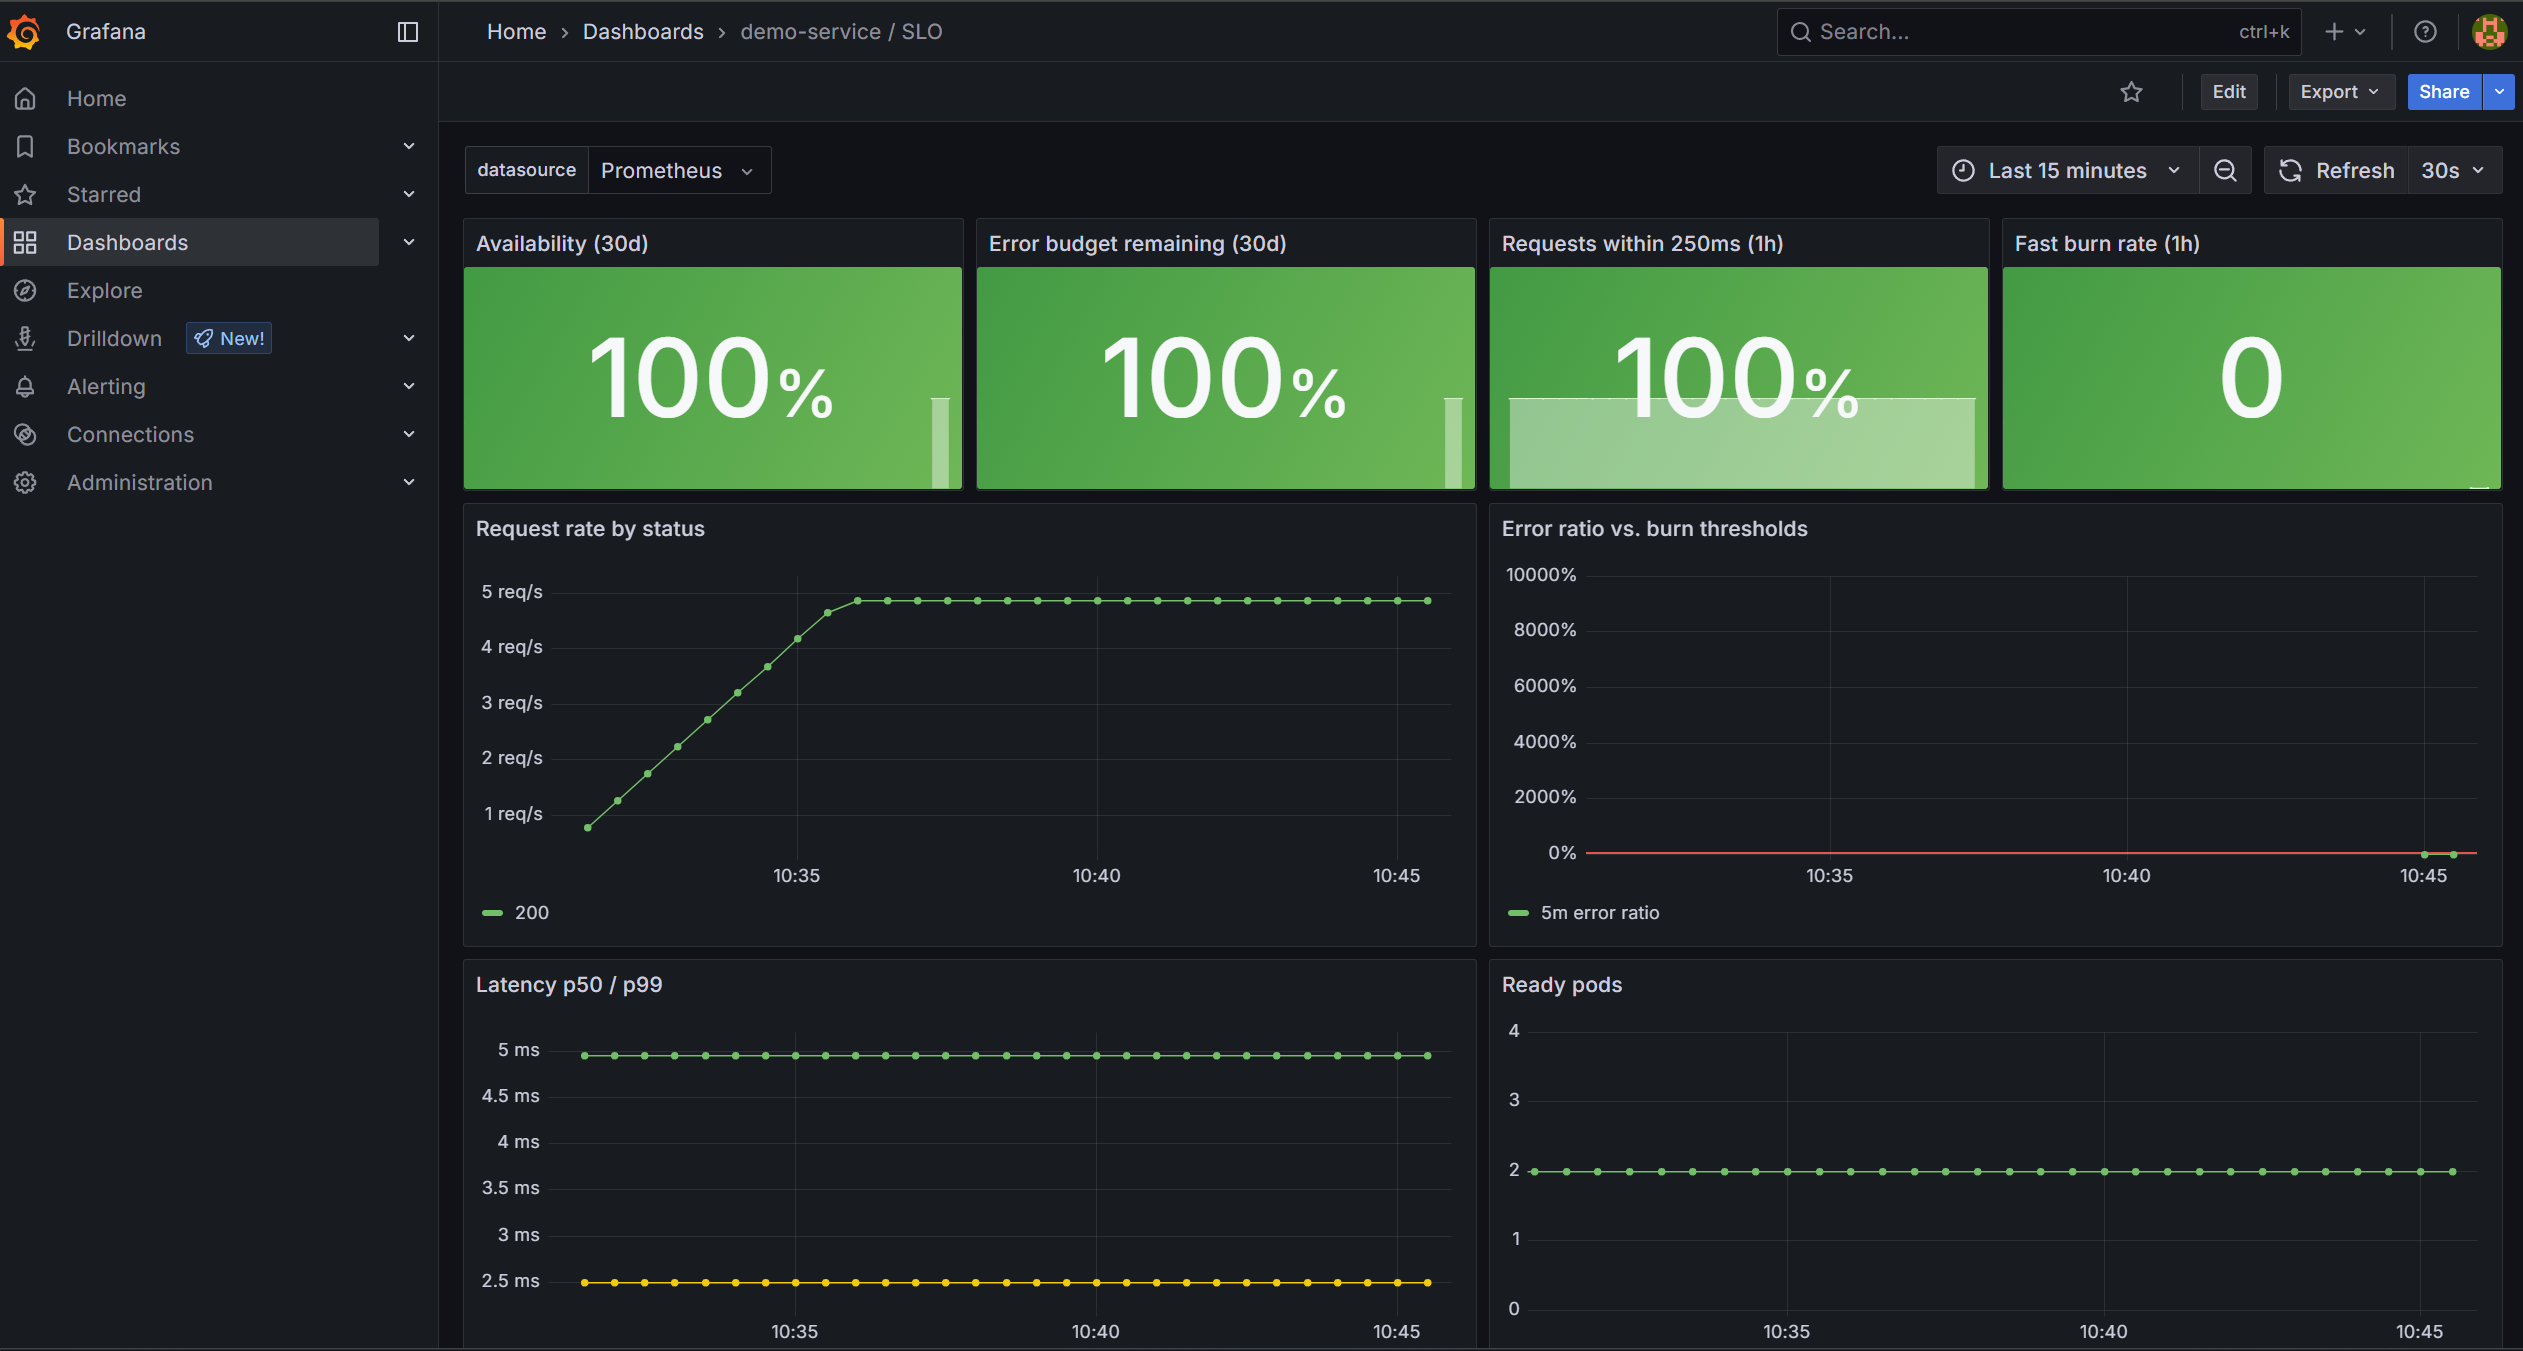
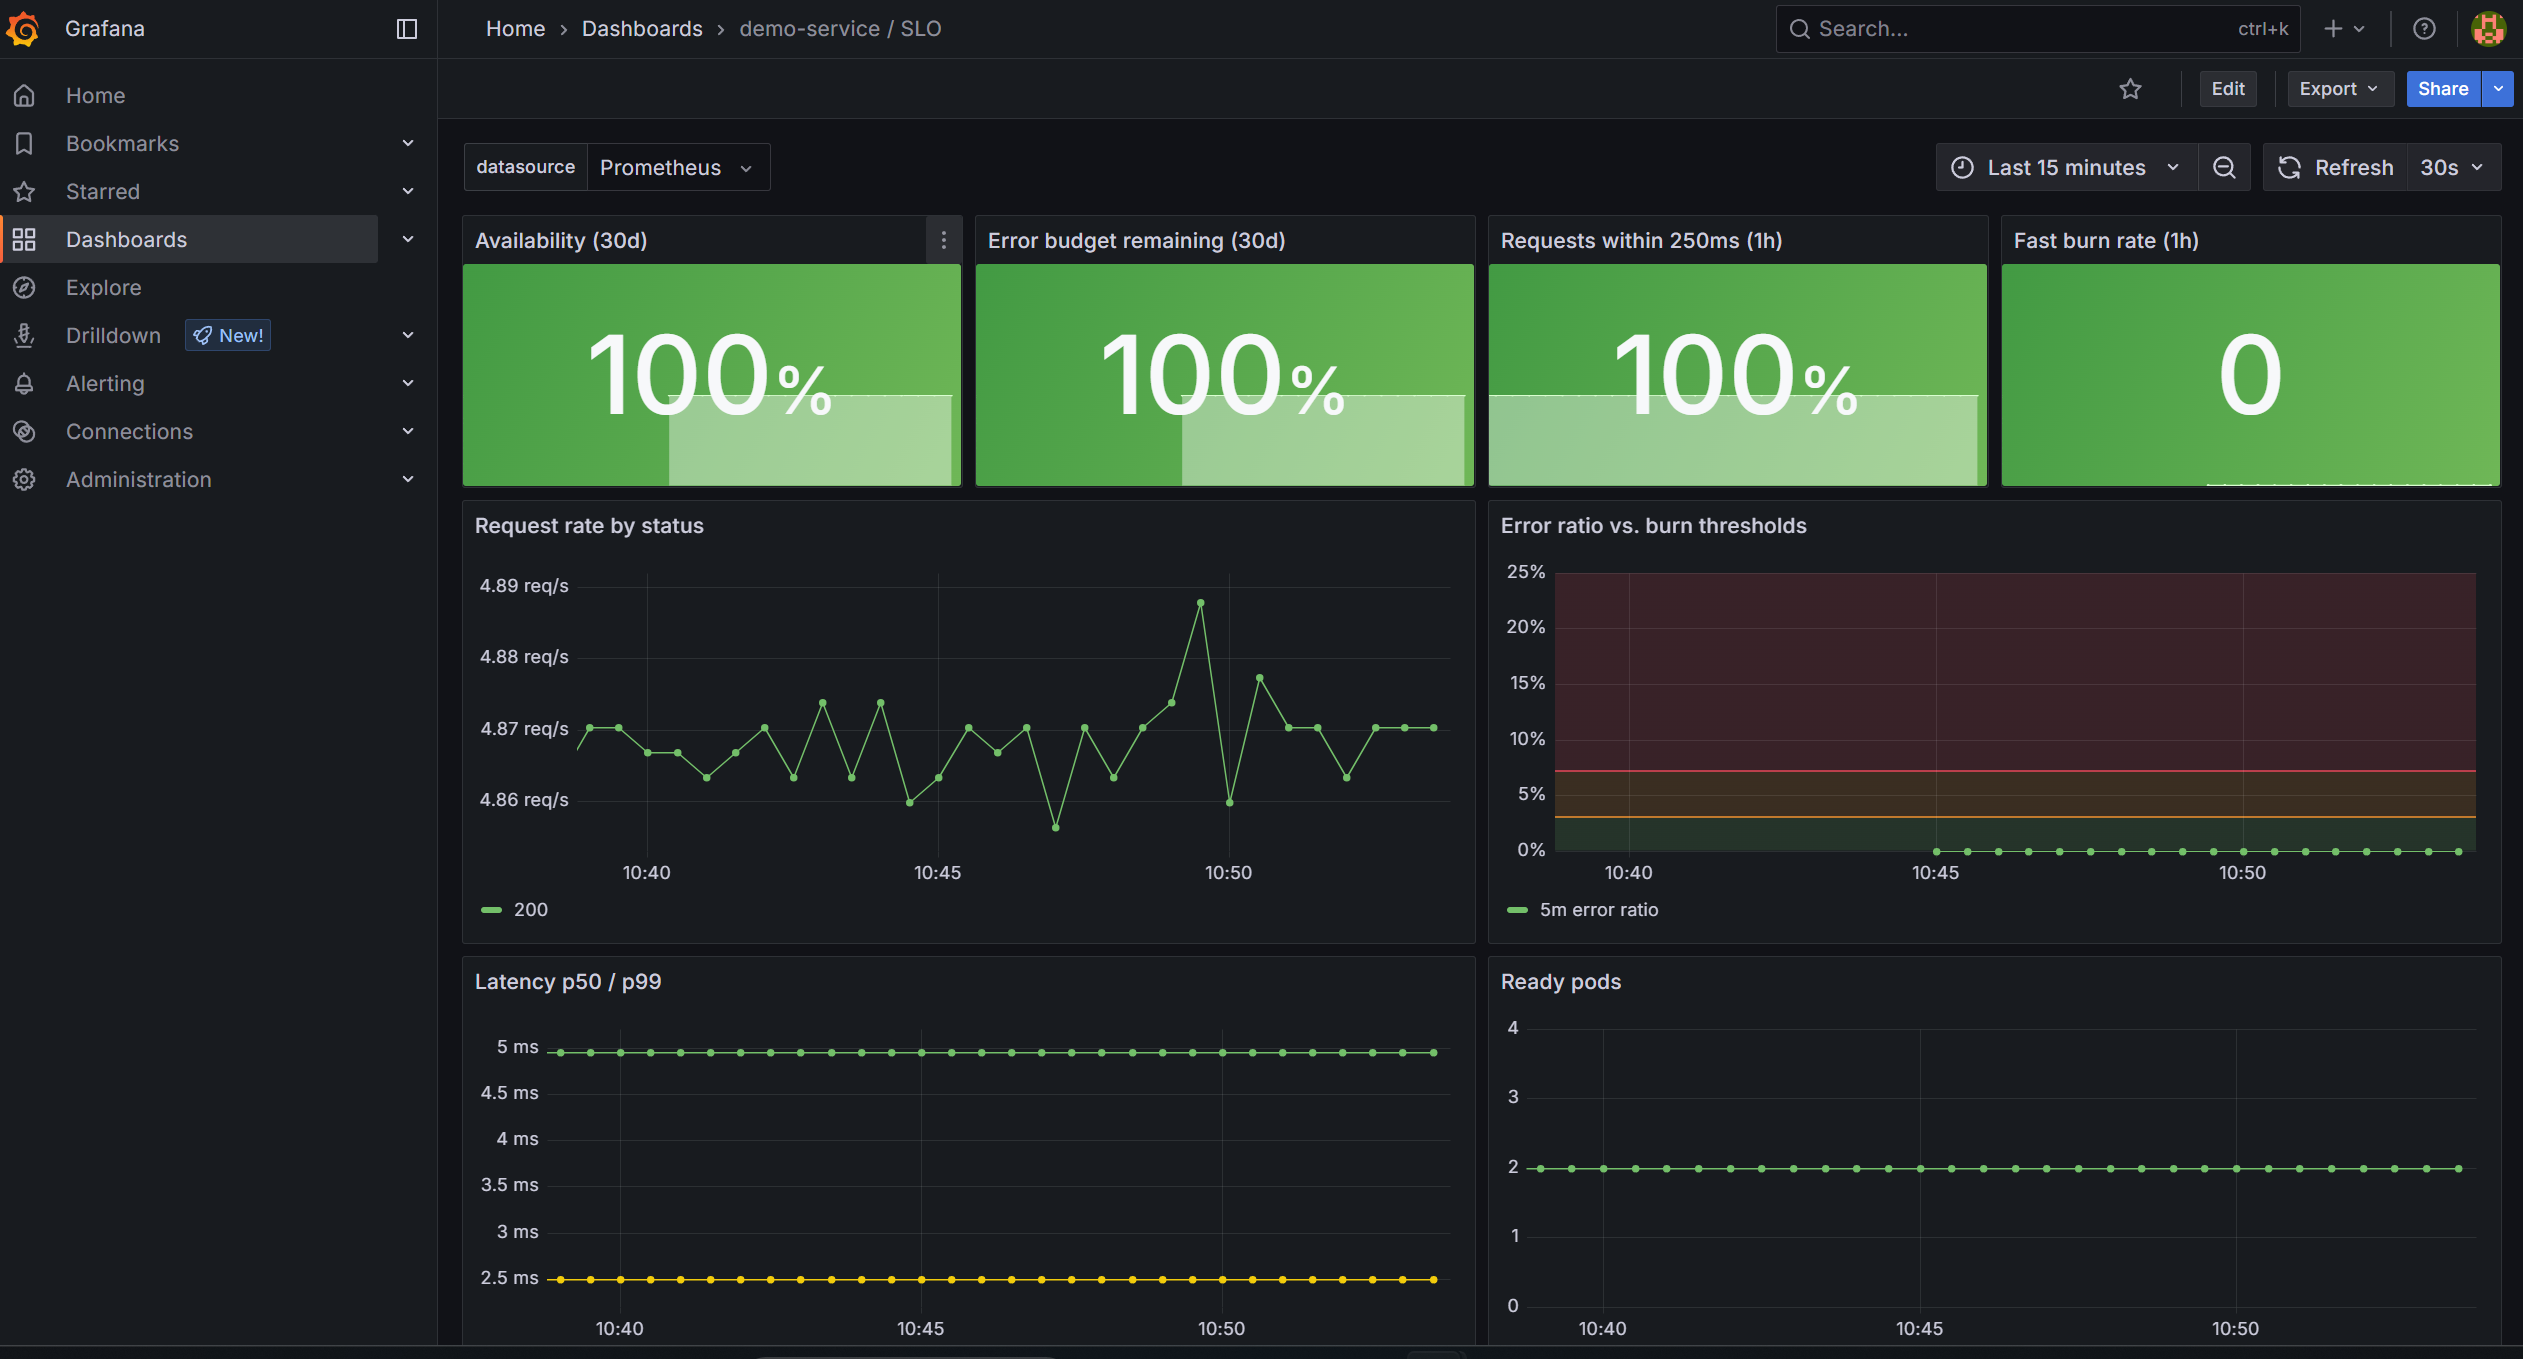
docs: refresh dashboard screenshot with burn-threshold bands
Claude-Session: https://claude.ai/code/session_01QVgVKeGSEjXQARMnUKpvCq

diff --git a/README.md b/README.md
@@ -11,7 +11,7 @@ It runs two ways from the same manifests:
 | **Local** (kind) | `make local-up` | free | trying it in 10 minutes |
 | **AWS** (EKS) | `make bootstrap && make apply` | about $5/day, see [Cost](#cost) | the real thing |
 
-![SLO dashboard for demo-service: 100% availability, full error budget, burn rate 0, ~5 req/s, p99 under 5 ms](docs/images/grafana-slo-dashboard.png)
+![SLO dashboard for demo-service: 100% availability, full error budget, burn rate 0, ~5 req/s, p99 under 5 ms, error ratio well below the 3% and 7.2% burn thresholds](docs/images/grafana-slo-dashboard.png)
 
 *The `demo-service / SLO` Grafana dashboard on the local kind cluster, under synthetic load.*
 
